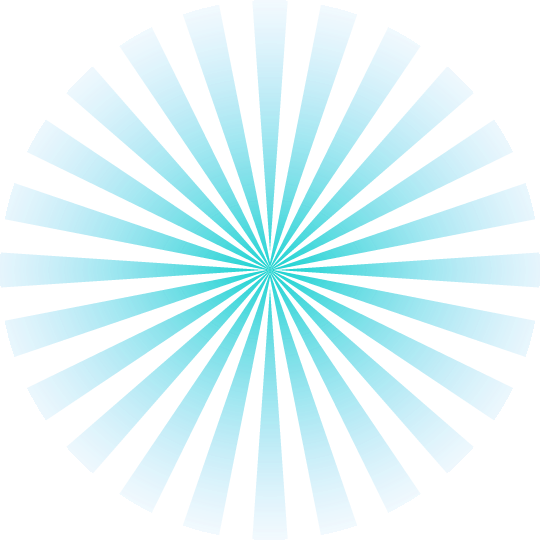
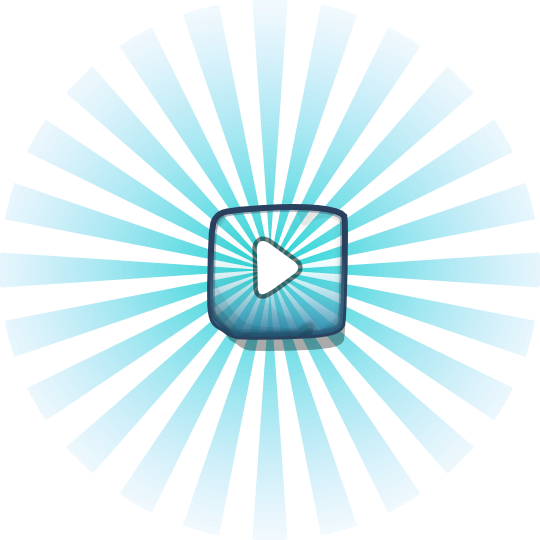
update

Changed region(s): [[0.3852, 0.3556, 0.6519, 0.6519]]

diff --git a/js/Game.js b/js/Game.js
@@ -63,8 +63,8 @@ export default class Game extends Phaser.Scene {
     // add button
     this.pauseButton = this.add.sprite(1600, 100, 'pause').setInteractive();
     this.pauseButton.on('pointerdown', function(){
-      this.setFrame(1);
-      this.scene.scene.pause('playgame');   
+        this.scene.scene.pause('playgame'); 
+        this.scene.scene.launch('sceneSTOP');
     });
 
     this.pauseButton = this.add.sprite(1800, 100, 'sound').setInteractive();
@@ -158,7 +158,7 @@ export default class Game extends Phaser.Scene {
       frames: this.anims.generateFrameNumbers('explosion', { start: 14, end: 25 }),
       frameRate: 15
     });
-    
+
     // Sonido
     const config = {
       mute: false,

diff --git a/index.html b/index.html
@@ -16,6 +16,7 @@
         import Game from './js/Game.js';
         import Menu from './js/Menu.js';
         import TerMenu from './js/TerMenu.js';
+        import sceneSTOP from './js/sceneSTOP.js';
 
         var config = {
             type: Phaser.AUTO,
@@ -29,7 +30,7 @@
                 mode: Phaser.Scale.FIT,
                 autoCenter: Phaser.Scale.CENTER_BOTH
             },
-            scene: [ Menu, Game, TerMenu],
+            scene: [ Menu, Game, TerMenu, sceneSTOP],
             physics: { 
                 default: 'arcade', 
                 arcade: { 

diff --git a/js/sceneSTOP.js b/js/sceneSTOP.js
@@ -1,0 +1,22 @@
+export default class sceneSTOP extends Phaser.Scene {
+	constructor() {
+	    super({ key: 'sceneSTOP' });
+	}
+
+	preload() {  
+          this.load.image('stopImage', 'assets/images/lights-sheet0.png');
+	}
+
+	create() {
+		this.add.image(960, 540, 'stopImage');
+
+        this.input.once('pointerdown', function () {
+			this.scene.scene.resume('playgame');
+			this.scene.scene.stop('sceneSTOP'); 
+        });
+	}
+
+	update(titleme, delta) {
+	    
+	}
+}
